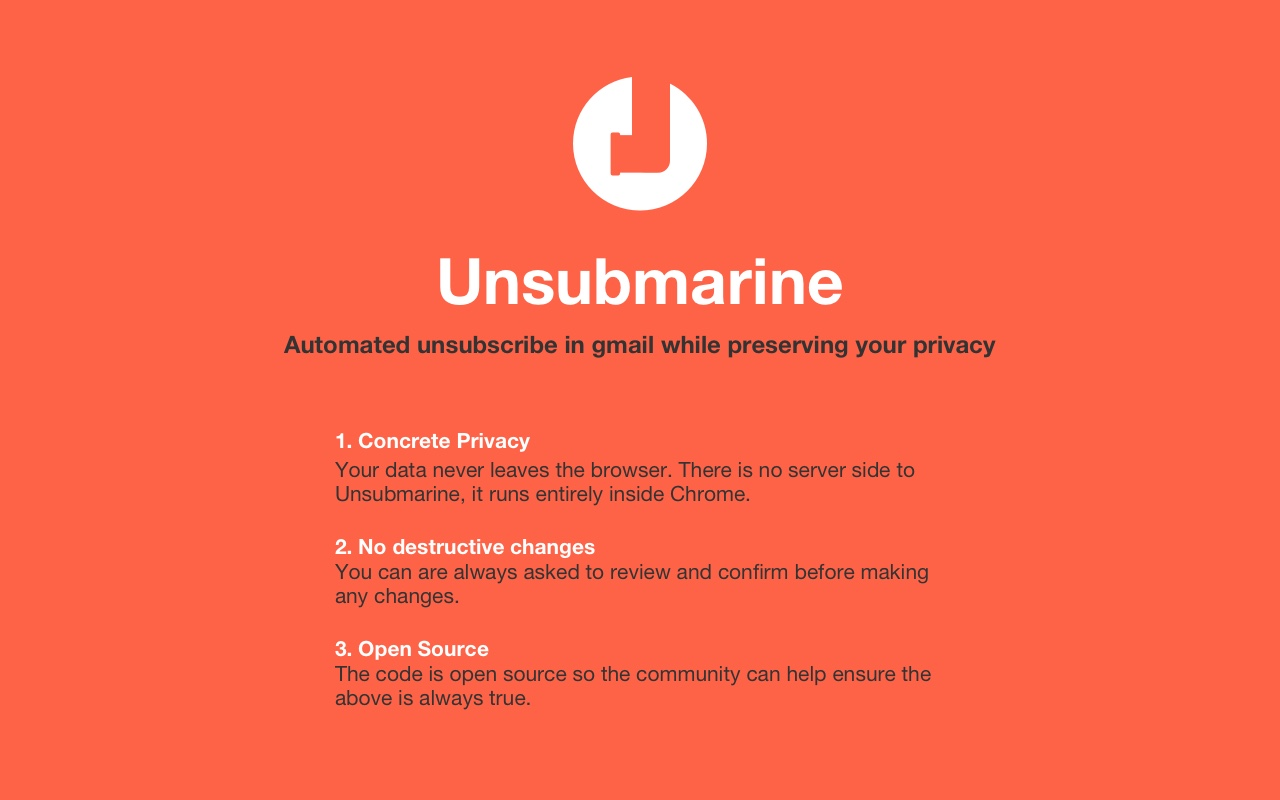
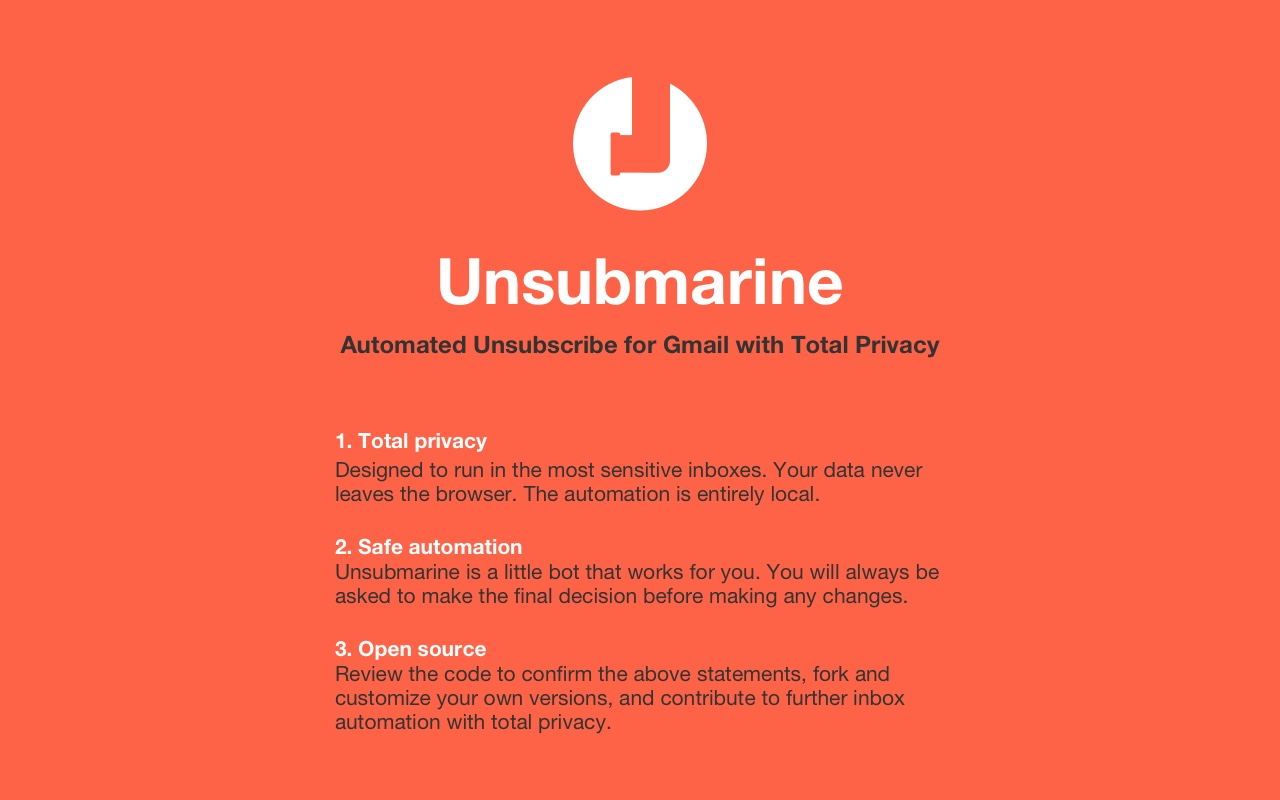
Tweaks tagline

Changed region(s): [[0.25, 0.6562, 0.7188, 0.9375], [0.25, 0.5312, 0.7188, 0.625], [0.2188, 0.4062, 0.7812, 0.4688]]

diff --git a/src/components/Start.svelte b/src/components/Start.svelte
@@ -51,7 +51,7 @@
       height="auto"
       class="mx-auto pb-2" />
     <h1 class="text-3xl font-bold">Unsubmarine</h1>
-    <p>Automated unsubscribe in gmail with total privacy*</p>
+    <p>Automated Unsubscribe for Gmail with Total Privacy*</p>
   </header>
 
   <div class="max-w-lg">
